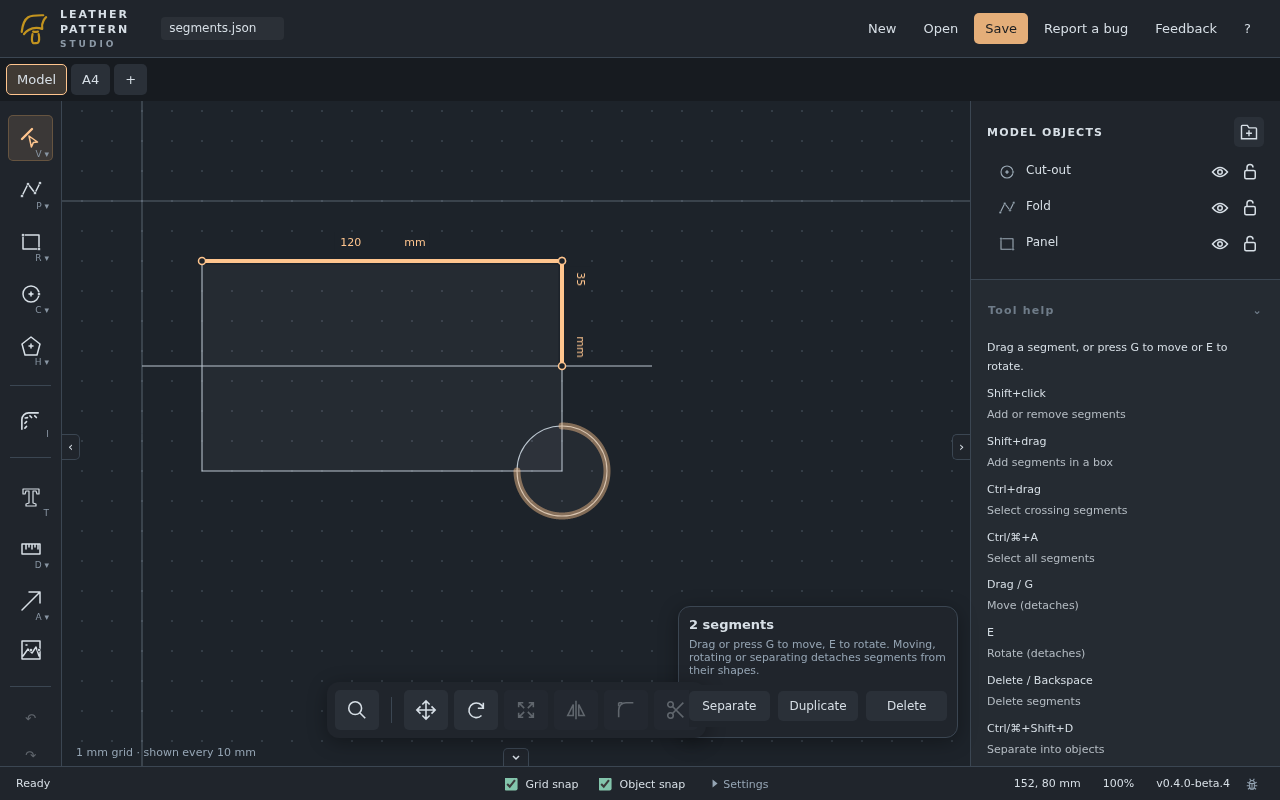
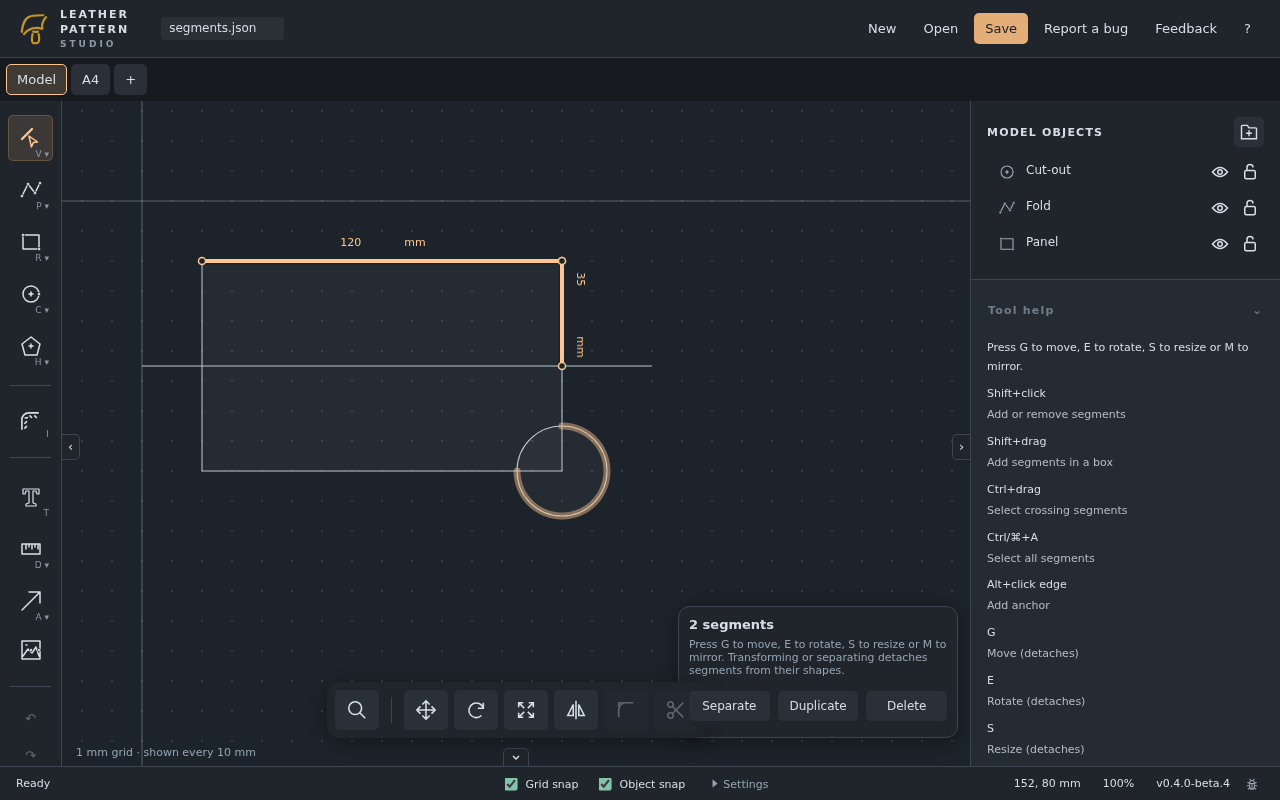
Make segment selection behave like object selection
Use the Select cursor in segment mode and stop dragging from moving
segments; clicking a segment replaces the selection as clicking an object
does. Alt-click inserts an anchor, splitting the segment. S and M resize
and mirror detached segments alongside G and E, and the Resize and Mirror
buttons are available for segments; Corners still needs whole objects.

Update tool help, the segment panel, the selection, shortcut and Trim
manual pages, and the segment-selection illustration.

diff --git a/src/editor/controller.ts b/src/editor/controller.ts
@@ -105,10 +105,10 @@ const fingerprint = (doc: Doc) => {
   const tree = reconcileObjectTree(doc.objectTree ?? objectTreeFromShapes(doc.shapes), doc.shapes);
   return JSON.stringify(parseProject(JSON.stringify({ ...doc, objectTree: tree, shapes: treeInDrawingOrder(tree, doc.shapes) })));
 };
+/** Transforms that apply to detached segments; Corners needs whole objects. */
+export type SegmentTransformTool = "move" | "rotate" | "scale" | "mirror";
 export type Gesture = {
-  kind: "move" | "scale" | "rotate" | "vertex" | "corner" | "marquee" | "pan" | "segment-move";
-  /** Set once a segment drag detaches its segments: the new shape ids being moved. */
-  segmentIds?: string[];
+  kind: "move" | "scale" | "rotate" | "vertex" | "corner" | "marquee" | "pan";
   start: Point;
   end: Point;
   original: Doc;
@@ -781,7 +781,6 @@ export class Controller {
       !this.pointerInside ||
       this.space ||
       this.tool !== "select" ||
-      this.segmentMode ||
       this.transformTool ||
       this.array ||
       this.placingPivot ||
@@ -2563,8 +2562,11 @@ export class Controller {
     const next = this.transformDraft ?? this.preview;
     if (this.segmentTransform) {
       const v = this.transformValues;
-      // An identity move or rotation leaves the segments attached.
-      if (v.x === 0 && v.y === 0 && v.angle === 0) { this.cancel(); return; }
+      // An identity transform leaves the segments attached.
+      const identity = this.transformTool === "mirror"
+        ? !this.mirrorAxis
+        : v.x === 0 && v.y === 0 && v.angle === 0 && v.sx === 1 && v.sy === 1;
+      if (identity) { this.cancel(); return; }
       const ids = [...this.selected];
       this.toolSelection = null;
       this.segmentTransform = null;
@@ -3399,9 +3401,9 @@ export class Controller {
   /** Moves the selected segments by exact values, detached from their shapes, in one undo step. */
   moveSegments() { return this.transformSegments("move"); }
   rotateSegments() { return this.transformSegments("rotate"); }
-  async transformSegments(tool: "move" | "rotate") {
+  async transformSegments(tool: SegmentTransformTool) {
     if (this.segmentTransform) {
-      // Switching between Move and Rotate restarts from the untouched segments.
+      // Switching between transforms restarts from the untouched segments.
       if (this.transformTool === tool || this.busy) return;
       this.cancel();
     }
@@ -4121,15 +4123,20 @@ export class Controller {
       const hit = this.segmentAtPoint(raw);
       const current = this.segmentSelection;
       const gesture = { start: raw, end: raw, original: this.document, selection: [], pivot: raw };
+      if (alt) {
+        // Alt-click inserts an anchor, as in object selection.
+        const shape = this.segmentTargets().slice().reverse()
+          .find(s => this.segmentEditable(s) && !isIndicator(s.kind) && s.kind !== "text" && s.kind !== "measurement" && hitTest(s, raw, 8 / this.zoom, this.units));
+        const next = shape && insertAnchor(shape, raw, 8 / this.zoom);
+        if (shape && next)
+          void this.commit({ ...this.document, shapes: this.document.shapes.map(s => s.id === shape.id ? next : s) });
+        return;
+      }
       if (hit) {
         const chosen = current.some(s => sameSegment(s, hit));
         if (shift)
           this.setSegmentSelection(chosen ? current.filter(s => !sameSegment(s, hit)) : [...current, hit]);
-        else {
-          if (!chosen) this.setSegmentSelection([hit]);
-          // Dragging a selected segment detaches and moves the whole selection.
-          this.gesture = { ...gesture, kind: "segment-move" };
-        }
+        else this.setSegmentSelection([hit]);
       } else {
         if (!shift) this.setSegmentSelection([]);
         this.gesture = { ...gesture, kind: "marquee", crossing: ctrl };
@@ -4277,7 +4284,6 @@ export class Controller {
       g?.kind === "pan" ||
       g?.kind === "rotate" ||
       g?.kind === "move" ||
-      g?.kind === "segment-move" ||
       g?.kind === "marquee"
         ? raw
         : !g && this.tool === "select" && !this.placingPivot
@@ -4330,21 +4336,6 @@ export class Controller {
       };
       this.notifyPointer();
       return;
-    }
-    if (g?.kind === "segment-move") {
-      if (distance(g.start, raw) * this.zoom < 4) {
-        this.notifyPointer();
-        return;
-      }
-      const { document, ids } = this.splitSegmentSelection();
-      if (!ids.length) {
-        this.gesture = null;
-        this.notify();
-        return;
-      }
-      // From here on it is an ordinary rigid move of the detached shapes.
-      Object.assign(g, { kind: "move", original: document, selection: ids, segmentIds: ids, baseValues: { x: 0, y: 0, angle: 0, sx: 1, sy: 1 } });
-      this.segmentHover = null;
     }
     if (g) {
       g.end = this.cursor;
@@ -4718,18 +4709,6 @@ export class Controller {
         x: this.transformPivot.x + (g.displacement?.x ?? 0),
         y: this.transformPivot.y + (g.displacement?.y ?? 0),
       };
-    }
-    if (g.kind === "segment-move") {
-      this.notify();
-      return;
-    }
-    if (g.segmentIds) {
-      const next = this.preview, ids = g.segmentIds;
-      this.preview = null;
-      this.message = "Ready";
-      if (next) void this.commitSegments(next, ids);
-      this.notify();
-      return;
     }
     if (["move", "rotate", "scale"].includes(g.kind)) this.captureNumericBasis();
     if (g.kind === "marquee" && this.segmentMode) {

diff --git a/tests/segment-select.spec.ts b/tests/segment-select.spec.ts
@@ -38,13 +38,13 @@ async function open(page: Page) {
   return { canvas, at };
 }
 
-test("segment selection selects, drags, deletes and switches with 1, 2 and V", async ({ page }) => {
+test("segment selection selects, deletes and switches with 1, 2 and V", async ({ page }) => {
   const { at } = await open(page);
   const select = page.getByRole("button", { name: "Select (V)", exact: true });
   const panel = page.getByRole("region", { name: "Segment selection" });
   const objects = page.locator(".objects .object-select");
   // Tool help describes segment selection only while that mode is active.
-  const segmentHint = page.getByText(/Click a segment between crossings|Drag a segment, or press G/);
+  const segmentHint = page.getByText(/Click a segment between crossings|Press G to move, E to rotate/);
 
   await page.keyboard.press("2");
   await expect(select).toHaveAttribute("aria-pressed", "true");
@@ -52,18 +52,16 @@ test("segment selection selects, drags, deletes and switches with 1, 2 and V", a
   await page.mouse.click(at(80, 40).x, at(80, 40).y);
   await expect(panel.getByText("1 segment", { exact: true })).toBeVisible();
 
-  // Dragging detaches the middle span; it stays selected in segment mode.
+  // Dragging a segment does not move it, as with objects in Select.
+  const canvas = page.getByLabel("Pattern drawing canvas");
+  await expect(canvas).not.toHaveCSS("cursor", "crosshair");
   await page.mouse.move(at(80, 40).x, at(80, 40).y);
   await page.mouse.down();
   await page.mouse.move(at(80, 50).x, at(80, 50).y, { steps: 4 });
   await page.mouse.move(at(80, 60).x, at(80, 60).y, { steps: 4 });
   await page.mouse.up();
-  await expect(objects).toHaveCount(5);
-  await expect(panel.getByText("1 segment", { exact: true })).toBeVisible();
-  await expect(segmentHint).toBeVisible();
-
-  await page.keyboard.press("Control+z");
   await expect(objects).toHaveCount(3);
+  await expect(panel.getByText("1 segment", { exact: true })).toBeVisible();
 
   // V cycles between the select variants; Delete removes only the clicked span.
   await page.getByLabel("Pattern drawing canvas").focus();
@@ -98,7 +96,8 @@ test("Ctrl+A selects all segments and Separate turns them into objects", async (
   // The separated pieces stay selected as segments.
   await expect(panel.getByText("7 segments", { exact: true })).toBeVisible();
   await expect(page.getByRole("button", { name: "Rotate", exact: true })).toBeEnabled();
-  await expect(page.getByRole("button", { name: "Resize", exact: true })).toBeDisabled();
+  await expect(page.getByRole("button", { name: "Resize", exact: true })).toBeEnabled();
+  await expect(page.getByRole("button", { name: "Corners", exact: true })).toBeDisabled();
 });
 
 test("E rotates a selected segment by an exact angle", async ({ page }) => {
@@ -108,8 +107,9 @@ test("E rotates a selected segment by an exact angle", async ({ page }) => {
   await page.keyboard.press("e");
   // The segment tool stays active; object-only tools stay unavailable while rotating.
   await expect(page.getByRole("menuitemradio")).toHaveCount(0);
-  for (const name of ["Resize", "Mirror", "Corners", "Trim"])
+  for (const name of ["Corners", "Trim"])
     await expect(page.getByRole("button", { name, exact: true })).toBeDisabled();
+  await expect(page.getByRole("button", { name: "Resize", exact: true })).toBeEnabled();
   await expect(page.getByRole("button", { name: "Rotate", exact: true })).toHaveAttribute("aria-pressed", "true");
   await page.getByLabel("Pattern drawing canvas").focus();
   await page.keyboard.press("k");

diff --git a/src/editor/controller.test.ts b/src/editor/controller.test.ts
@@ -3946,25 +3946,55 @@ describe("segment selection", () => {
     expect(copy.name).toBe("target copy");
   });
 
-  test("dragging a selected segment detaches and moves it in one commit", async () => {
+  test("dragging a segment selects it without moving it, as in object selection", async () => {
     const e = await crossed();
-    const original = JSON.stringify(e.document.shapes);
-    click(e, 15, 0);
+    const original = JSON.stringify(e.document);
+    click(e, 5, 0);
+    click(e, 15, 0, true);
+    expect(e.segmentSelection).toHaveLength(2);
+    // Pressing a selected segment replaces the selection, like clicking an object.
     e.pointerDown(at(e, 15, 0), 0, false, false);
-    e.pointerMove(at(e, 15, 0.1), false);
+    e.pointerMove(at(e, 15, 20), false);
+    e.pointerUp(at(e, 15, 20), false);
+    expect(e.gesture).toBeNull();
     expect(e.preview).toBeNull();
-    e.pointerMove(at(e, 15, 20), true);
-    expect(e.preview?.shapes.length).toBe(5);
-    expect(e.document.shapes).toHaveLength(3);
-    e.pointerUp(at(e, 15, 20), true);
-    await vi.waitFor(() => expect(e.document.shapes).toHaveLength(5));
+    expect(JSON.stringify(e.document)).toBe(original);
+    expect(e.segmentSelection.map(s => s.points[0])).toEqual([{ x: 10, y: 0 }]);
+  });
+
+  test("Alt-click inserts an anchor and stays in segment mode", async () => {
+    const e = await crossed();
+    expect(e.anchorIndicator).toBeNull();
+    e.pointerMove(at(e, 25, 0), true);
+    expect(e.anchorIndicator!.x).toBeCloseTo(25, 4);
+    e.pointerDown(at(e, 25, 0), 0, false, true);
+    await vi.waitFor(() => expect(e.document.shapes.find(s => s.id === "target")!.points).toHaveLength(3));
     expect(e.mode).toBe("segment-select");
+    // The new anchor splits the last span into two segments.
+    click(e, 22, 0);
     expect(e.segmentSelection).toHaveLength(1);
-    const moved = e.document.shapes.find(s => s.id === e.segmentSelection[0].shapeId)!;
-    expect(moved.points).toEqual([{ x: 10, y: 20 }, { x: 20, y: 20 }]);
-    expect(e.document.shapes).toHaveLength(5);
-    await e.transact("undo");
-    expect(JSON.stringify(e.document.shapes)).toBe(original);
+    expect(e.segmentSelection[0].points[0]).toEqual({ x: 20, y: 0 });
+    expect(e.segmentSelection[0].points.at(-1)!.x).toBeCloseTo(25, 4);
+  });
+
+  test("S and M resize and mirror detached segments in segment mode", async () => {
+    const e = await crossed();
+    click(e, 15, 0);
+    await e.transformSegments("scale");
+    expect(e.transformTool).toBe("scale");
+    expect(e.mode).toBe("segment-select");
+    e.setTransformValues({ sx: 2, sy: 2 });
+    await e.applyTransform();
+    expect(e.mode).toBe("segment-select");
+    const scaled = e.document.shapes.find(s => s.id === e.segmentSelection[0].shapeId)!;
+    expect(worldPoints(scaled).map(p => p.x).sort((a, b) => a - b)).toEqual([5, 25]);
+    // Mirror without an axis leaves the segments attached.
+    const before = JSON.stringify(e.document);
+    await e.transformSegments("mirror");
+    expect(e.transformTool).toBe("mirror");
+    await e.applyTransform();
+    expect(JSON.stringify(e.document)).toBe(before);
+    expect(e.mode).toBe("segment-select");
   });
 
   test("G moves detached segments exactly; Esc returns to the untouched segments", async () => {

diff --git a/src/vue/shortcuts.test.ts b/src/vue/shortcuts.test.ts
@@ -45,9 +45,8 @@ const editor = vi.hoisted(() => ({
   setSegmentSelection: vi.fn(),
   selectAllSegments: vi.fn(),
   separateSegments: vi.fn(),
-  moveSegments: vi.fn(),
+  transformSegments: vi.fn(),
   segmentMoveActive: false,
-  rotateSegments: vi.fn(),
   delete: vi.fn(),
 }));
 vi.mock("../editor/instance", () => ({ editor }));
@@ -306,16 +305,13 @@ test("V still places the pivot during a transform", () => {
   expect(editor.beginPivotPlacement).toHaveBeenCalledOnce();
   expect(editor.cycle).not.toHaveBeenCalled();
 });
-test("segment mode routes G, E, Ctrl+A, Ctrl+Shift+D, Delete and Escape to segments", () => {
+test("segment mode routes G, E, S, M, Ctrl+A, Ctrl+Shift+D, Delete and Escape to segments", () => {
   editor.segmentMode = true;
   editor.mode = "segment-select";
   editor.selected = [];
   editor.segmentSelection = [{}];
-  press("g");
-  expect(editor.moveSegments).toHaveBeenCalledOnce();
-  press("e");
-  expect(editor.rotateSegments).toHaveBeenCalledOnce();
-  for (const key of ["s", "m", "b"]) press(key);
+  for (const key of ["g", "e", "s", "m", "b"]) press(key);
+  expect(editor.transformSegments.mock.calls).toEqual([["move"], ["rotate"], ["scale"], ["mirror"]]);
   expect(editor.activateTransform).not.toHaveBeenCalled();
   press("a", { ctrlKey: true });
   expect(editor.selectAllSegments).toHaveBeenCalledOnce();

diff --git a/src/editor/hint.test.ts b/src/editor/hint.test.ts
@@ -294,11 +294,14 @@ test("segment selection explains selecting and editing segments", () => {
   expect(idle.action).toBe("Click a segment between crossings or corners.");
   expect(idle.controls.some((row) => row.id === "delete")).toBe(false);
   const chosen = editorHint({ ...base, mode: "segment-select", segmentSelection: [{}] });
-  expect(chosen.action).toBe("Drag a segment, or press G to move or E to rotate.");
+  expect(chosen.action).toBe("Press G to move, E to rotate, S to resize or M to mirror.");
   expect(chosen.controls).toEqual(
     expect.arrayContaining([
-      { id: "move", gesture: "Drag / G", action: "Move (detaches)" },
+      { id: "move", gesture: "G", action: "Move (detaches)" },
       { id: "rotate", gesture: "E", action: "Rotate (detaches)" },
+      { id: "scale", gesture: "S", action: "Resize (detaches)" },
+      { id: "mirror", gesture: "M", action: "Mirror (detaches)" },
+      { id: "insert", gesture: "Alt+click edge", action: "Add anchor" },
       { id: "delete", gesture: "Delete / Backspace", action: "Delete segments" },
       { id: "separate", gesture: "Ctrl/⌘+Shift+D", action: "Separate into objects" },
       { id: "variants", gesture: "V / Shift+V", action: "Switch to object selection" },

diff --git a/src/vue/FavoriteToolButton.vue b/src/vue/FavoriteToolButton.vue
@@ -2,6 +2,7 @@
 import { editor } from "../editor/instance";
 import { useEditor } from "./useEditor";
 import { transformShortcuts } from "./tools";
+import type { SegmentTransformTool } from "../editor/controller";
 defineProps<{ id: string; label?: string; shortcut?: string }>();
 const emit = defineEmits<{ activated: [] }>();
 const e = useEditor();
@@ -54,14 +55,14 @@ const e = useEditor();
   <button
     v-for="item in transformShortcuts.filter((t) => t[0] === id)"
     :key="item[0]"
-    :disabled="e.segmentMode ? !['move', 'rotate'].includes(item[0]) || !(e.canEditSegments || e.segmentMoveActive) : !e.canStartTransform(item[0])"
+    :disabled="e.segmentMode ? item[0] === 'corner' || !(e.canEditSegments || e.segmentMoveActive) : !e.canStartTransform(item[0])"
     :aria-label="item[1]"
     :title="`${item[1]} (${item[2]})`"
     :aria-pressed="e.transformTool === item[0]"
     :aria-keyshortcuts="item[2].toLowerCase()"
     @click="
       emit('activated');
-      e.segmentMode ? editor.transformSegments(item[0] as 'move' | 'rotate') : editor.activateTransform(item[0]);
+      e.segmentMode ? editor.transformSegments(item[0] as SegmentTransformTool) : editor.activateTransform(item[0]);
     "
   >
     <svg

diff --git a/src/editor/hint.ts b/src/editor/hint.ts
@@ -451,15 +451,18 @@ function buildHint(
   } else if (s.mode === "segment-select") {
     const count = s.segmentSelection?.length ?? 0;
     action = count
-      ? "Drag a segment, or press G to move or E to rotate."
+      ? "Press G to move, E to rotate, S to resize or M to mirror."
       : "Click a segment between crossings or corners.";
     add("toggle", "Shift+click", "Add or remove segments");
     add("add", "Shift+drag", "Add segments in a box");
     add("crossing", "Ctrl+drag", "Select crossing segments");
     add("all", "Ctrl/⌘+A", "Select all segments");
+    add("insert", "Alt+click edge", "Add anchor");
     if (count) {
-      add("move", "Drag / G", "Move (detaches)");
+      add("move", "G", "Move (detaches)");
       add("rotate", "E", "Rotate (detaches)");
+      add("scale", "S", "Resize (detaches)");
+      add("mirror", "M", "Mirror (detaches)");
       add("delete", "Delete / Backspace", "Delete segments");
       add("separate", "Ctrl/⌘+Shift+D", "Separate into objects");
       add("duplicate", "Ctrl/⌘+D", "Duplicate");

diff --git a/src/vue/TransformToolbox.vue b/src/vue/TransformToolbox.vue
@@ -221,7 +221,7 @@ const squareSelection = computed(() => e.value.active.some(s => s.kind === "size
     <StitchToolbar />
     <section v-if="e.segmentMode && !e.transformTool && e.segmentSelection.length" class="transform-options segment-options" aria-label="Segment selection">
       <strong>{{ e.segmentSelection.length === 1 ? "1 segment" : `${e.segmentSelection.length} segments` }}</strong>
-      <small>Drag or press G to move, E to rotate. Moving, rotating or separating detaches segments from their shapes.</small>
+      <small>Press G to move, E to rotate, S to resize or M to mirror. Transforming or separating detaches segments from their shapes.</small>
       <div class="actions tool-popup-footer">
         <button :disabled="e.busy" title="Separate (Ctrl+Shift+D)" @click="editor.separateSegments()">Separate</button>
         <button :disabled="e.busy" title="Duplicate (Ctrl+D)" @click="editor.duplicateSegments()">Duplicate</button>

diff --git a/src/vue/shortcuts.ts b/src/vue/shortcuts.ts
@@ -191,10 +191,9 @@ export function handleShortcut(e: KeyboardEvent, openHelp: () => void) {
     }
     if (transformShortcuts.some((item) => item[2].toLowerCase() === k)) {
       e.preventDefault();
-      // Segments move and rotate; other transforms need whole objects.
+      // Segments take every transform except Corners, which needs whole objects.
       if (editor.segmentMode) {
-        if (k === "g") void editor.moveSegments();
-        else if (k === "e") void editor.rotateSegments();
+        if (k !== "b") void editor.transformSegments(k === "g" ? "move" : k === "e" ? "rotate" : k === "m" ? "mirror" : "scale");
         return;
       }
       editor.activateTransform(

diff --git a/src/vue/Viewport.vue b/src/vue/Viewport.vue
@@ -179,8 +179,6 @@ const cursor = computed(() => {
   if (editor.array && !editor.objectPicker) return editor.arrayFollowing || editor.arrayCenterPicking ? "crosshair" : "default";
   if (editor.placingPivot) return "crosshair";
   if (editor.hoverHandle === "move") return "move";
-  if (editor.segmentMode && !editor.transformTool)
-    return editor.gesture?.kind === "move" ? "grabbing" : editor.segmentHover ? "pointer" : "crosshair";
   return editor.tool !== "select"
     ? "none"
     : editor.gesture?.kind === "rotate" || editor.hoverHandle === "rotate"

diff --git a/docs/manual/transforms.md b/docs/manual/transforms.md
@@ -48,7 +48,7 @@ Tool settings appear beside the sidebar. Scroll within long panels to reach addi
 
 ## Trim
 
-Trim changes only selected objects; visible unselected outlines still provide crossing boundaries. Choose the scissors icon to activate Trim, or press **K** with the canvas focused. Choose targets using Select Objects if needed. The icon stays highlighted while Trim is active; Escape clears the highlight. Hover over an outline to highlight the portion to remove with a thick rose stroke and a contrasting halo. Click to preview removing that portion between corners or crossings. Make multiple cuts, then Apply, Enter, or right-click to save them as one undo step. Cancel or Escape discards all cuts and exits Trim. Curves, circles, ellipses, arcs, and rounded corners can also be trimmed. Cuts stop at crossings, open endpoints, or sharp corners; Curve and Control Curve anchors also stop cuts, including smooth anchors. For other outlines, smooth joins and closed seams do not stop a cut. Clicking an isolated circle or ellipse removes it entirely. Trim switches to Select; Apply and Cancel leave Select active. Retained curves remain editable; interpolated curves become control curves after trimming. To move, rotate, separate, or copy such portions instead of removing them, use [Select segments](#selection/select-segments).
+Trim changes only selected objects; visible unselected outlines still provide crossing boundaries. Choose the scissors icon to activate Trim, or press **K** with the canvas focused. Choose targets using Select Objects if needed. The icon stays highlighted while Trim is active; Escape clears the highlight. Hover over an outline to highlight the portion to remove with a thick rose stroke and a contrasting halo. Click to preview removing that portion between corners or crossings. Make multiple cuts, then Apply, Enter, or right-click to save them as one undo step. Cancel or Escape discards all cuts and exits Trim. Curves, circles, ellipses, arcs, and rounded corners can also be trimmed. Cuts stop at crossings, open endpoints, or sharp corners; Curve and Control Curve anchors also stop cuts, including smooth anchors. For other outlines, smooth joins and closed seams do not stop a cut. Clicking an isolated circle or ellipse removes it entirely. Trim switches to Select; Apply and Cancel leave Select active. Retained curves remain editable; interpolated curves become control curves after trimming. To move, rotate, resize, mirror, separate, or copy such portions instead of removing them, use [Select segments](#selection/select-segments).
 
 ![Curved portion highlighted for trimming between crossings](/manual/images/trim.png)
 

diff --git a/docs/manual/selection.md b/docs/manual/selection.md
@@ -8,7 +8,7 @@ Select segments picks parts of outlines instead of whole objects. Press **2**, p
 
 Click a segment to select it; Shift+click adds or removes segments. Drag an empty area to select fully enclosed segments; Ctrl+drag also selects segments crossing the box, and Shift+drag adds to the selection. Ctrl/⌘+A selects every segment of visible, unlocked objects. Hidden and locked objects are skipped. Esc clears the selection; press it again to return to Select objects.
 
-Drag a selected segment to move the selection, or press **G** to move it or **E** to rotate it by exact values with the usual transform panel and pivot. Moving or rotating detaches the segments from their shapes: each shape is split at the segment ends and the segments become separate objects in the same group. Delete or Backspace removes the selected segments from their shapes. **Separate** (Ctrl/⌘+Shift+D) turns them into separate objects without moving them. **Duplicate** (Ctrl/⌘+D) adds offset copies and Ctrl/⌘+C copies them for pasting; the original shapes stay whole. Each operation is one undo step and keeps Select segments active with the resulting segments selected. While moving or rotating segments, other tools stay unavailable until you apply or cancel; Esc returns to the original segments.
+As with objects, dragging does not move segments. Press **G** to move, **E** to rotate, **S** to resize or **M** to mirror the selected segments with the usual transform panel, gizmo and pivot. Transforming detaches the segments from their shapes: each shape is split at the segment ends and the segments become separate objects in the same group. Corners is unavailable for segments. Alt-click an outline to insert an anchor, which splits the segment there. Delete or Backspace removes the selected segments from their shapes. **Separate** (Ctrl/⌘+Shift+D) turns them into separate objects without moving them. **Duplicate** (Ctrl/⌘+D) adds offset copies and Ctrl/⌘+C copies them for pasting; the original shapes stay whole. Each operation is one undo step and keeps Select segments active with the resulting segments selected. While transforming segments, other tools stay unavailable until you apply or cancel; switching between Move, Rotate, Resize and Mirror starts again from the original segments, and Esc returns to them.
 
 Hold Ctrl to show segment lengths. When a segment covers a whole straight edge, click its length to edit that edge as in object selection.
 
